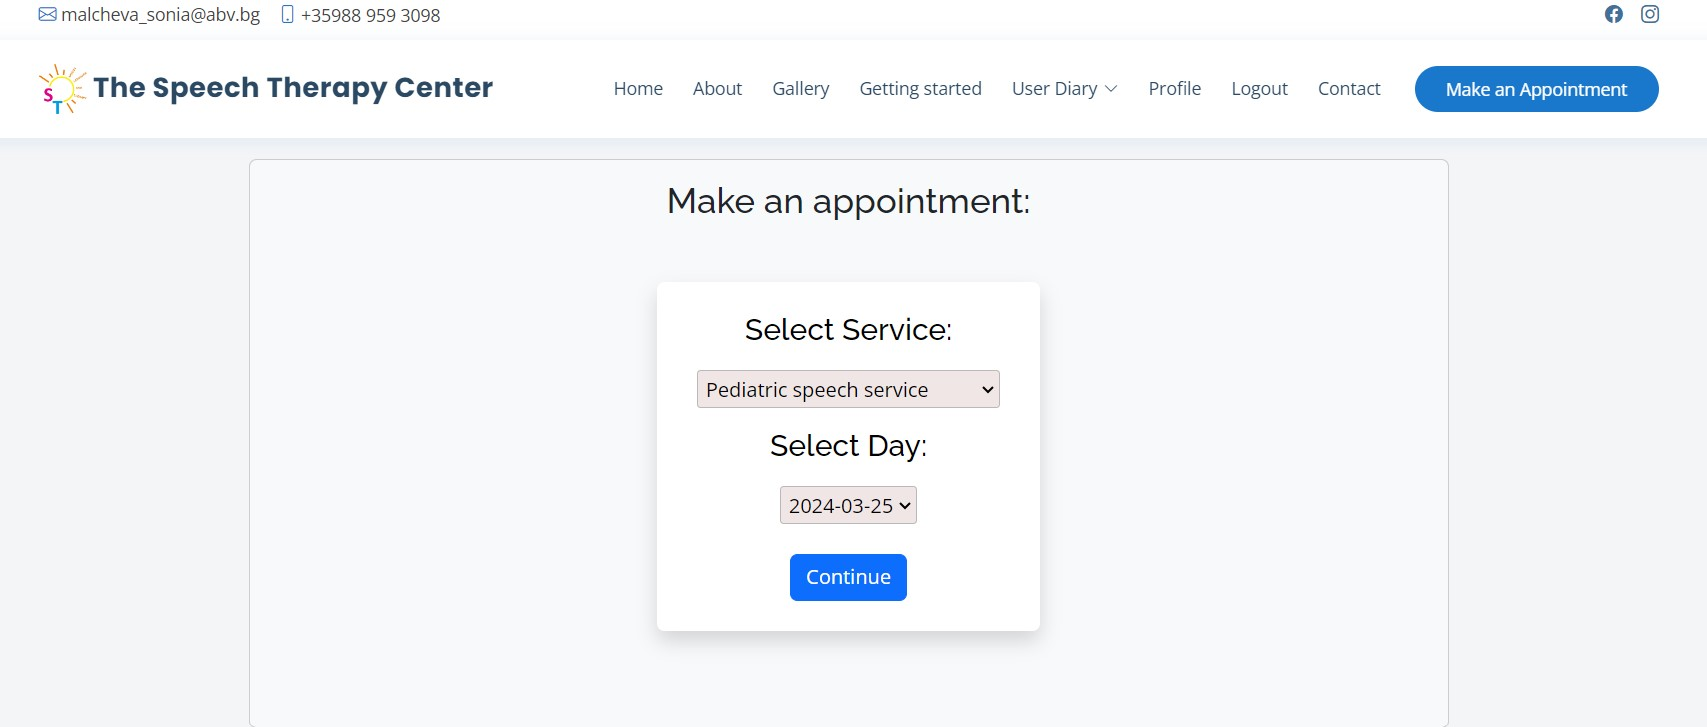
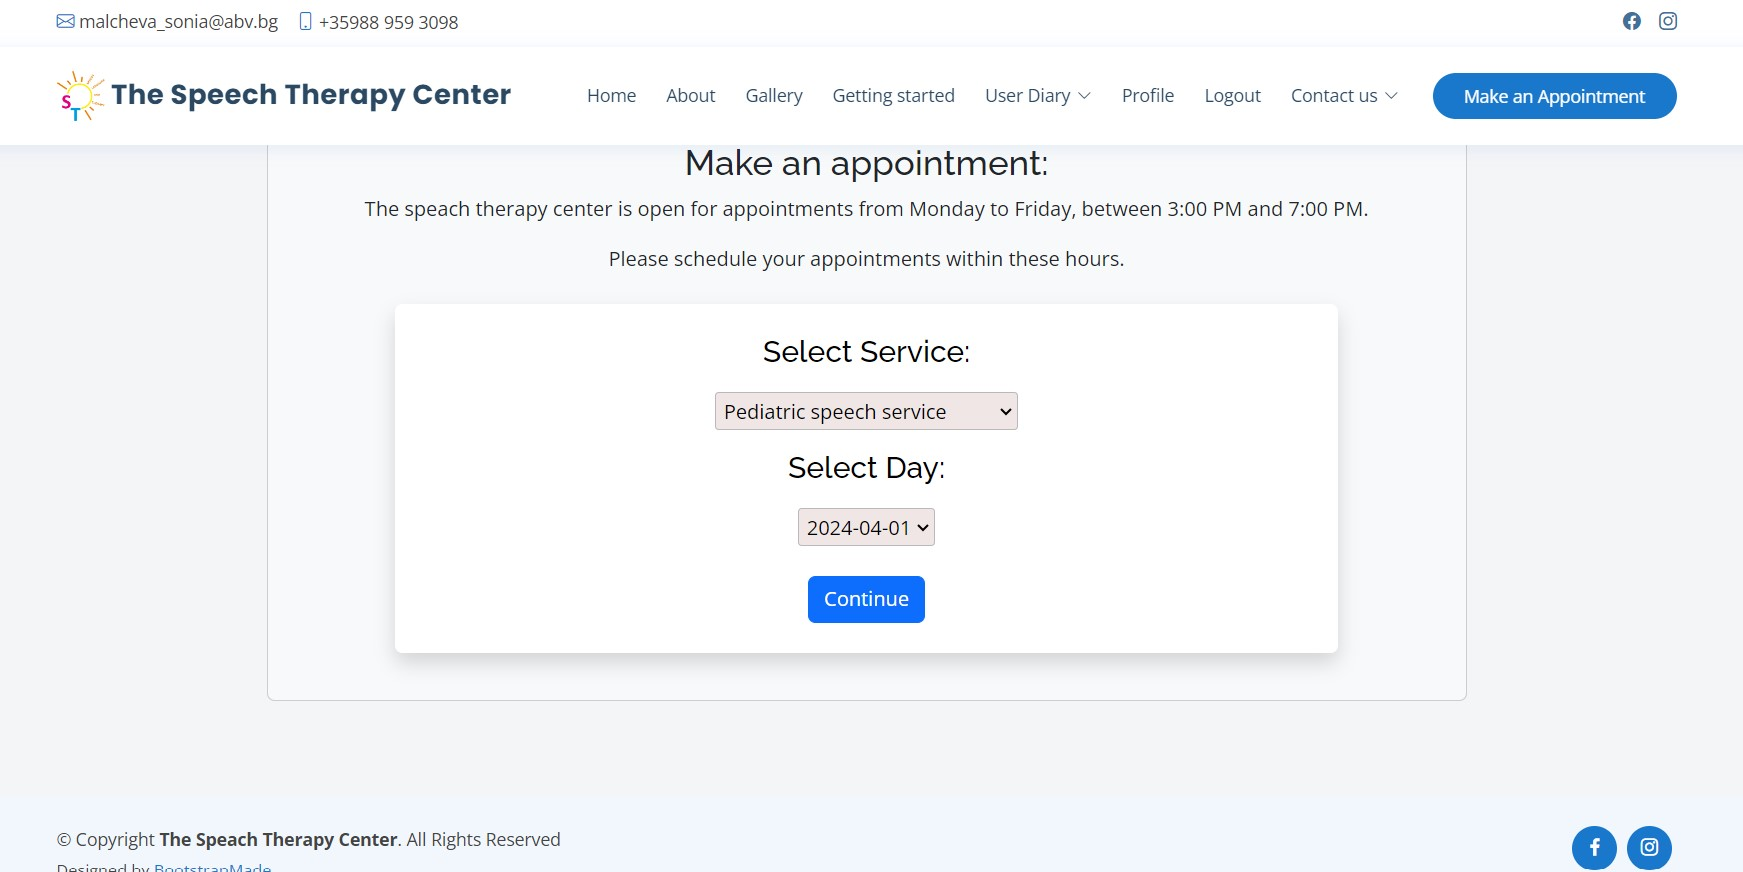
Content update

diff --git a/the_speach_therapy_center/templates/services/appointment_create.html b/the_speach_therapy_center/templates/services/appointment_create.html
@@ -10,11 +10,10 @@
 
             {% if user.is_authenticated %}
                 <h3 class="text-center  mt-3">Make an appointment:</h3>
-                <p>The speach therapy center is open for appointments from Monday to Friday, between 3:00 PM and 7:00 PM.</p>
-                <p>Please schedule your appointments within these hours.</p>
+                <h8>The speach therapy center is open for appointments from Monday to Friday, between 3:00 PM and 7:00 PM.</h8>
+                <h8>Please schedule your appointments within these hours.</h8>
                     <div class="shadow p-4 mb-2 bg-body bg-body rounded text-black  m-4 ">
                         <form method="post" action="{% url 'appointment create' %}" class="me-2 ms-2" required>
-
                         <div>
                             <h4 class="">Select Service:</h4>
                             <select class="form-select-lm " name="service">
@@ -23,7 +22,6 @@
                                 <option value="Occupational therapy service">Occupational therapy service</option>
                             </select>
                         </div>
-                            <!--input day-->
                             <div class="mt-3">
                                 <h4 class="">Select Day:</h4>
                                 <select class="form-select-lm " name="day">
@@ -32,23 +30,21 @@
                                     {% endfor %}
                                 </select>
                             </div>
-
                             <br/>
                             <button type="submit" class="btn btn-primary text-white">Continue</button>
                             {% csrf_token %}
-                        </div>
-                    </form>
+                        </form>
+                    </div>
+
+            {% else %}
+
+                <div class="shadow p-4 mb-5 bg-body bg-body rounded text-black  m-5 ">
+                    <h3 class="p-2  me-3">You Are Not Signed in!</h3>
+                    <p>Please Log In or Sign Up Before Scheduling an Appointment</p>
+                    <a href="{% url 'signin user' %}" class="btn btn-primary shadow text-center">Sign in</a>
                 </div>
 
-{% else %}
-
-<div class="shadow p-4 mb-5 bg-body bg-body rounded text-black  m-5 ">
-    <h3 class="p-2  me-3">You Are Not Signed in!</h3>
-    <p>Please Log In or Sign Up Before Scheduling an Appointment</p>
-    <a href="{% url 'signin user' %}" class="btn btn-primary shadow text-center">Sign in</a>
-</div>
-
-{% endif %}
+            {% endif %}
 
         </div>
       </div>
